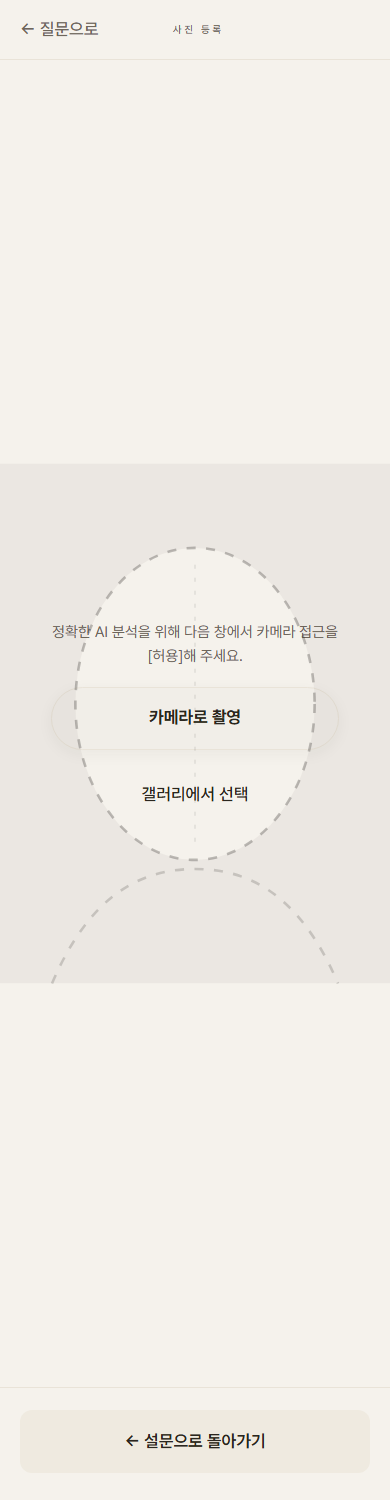
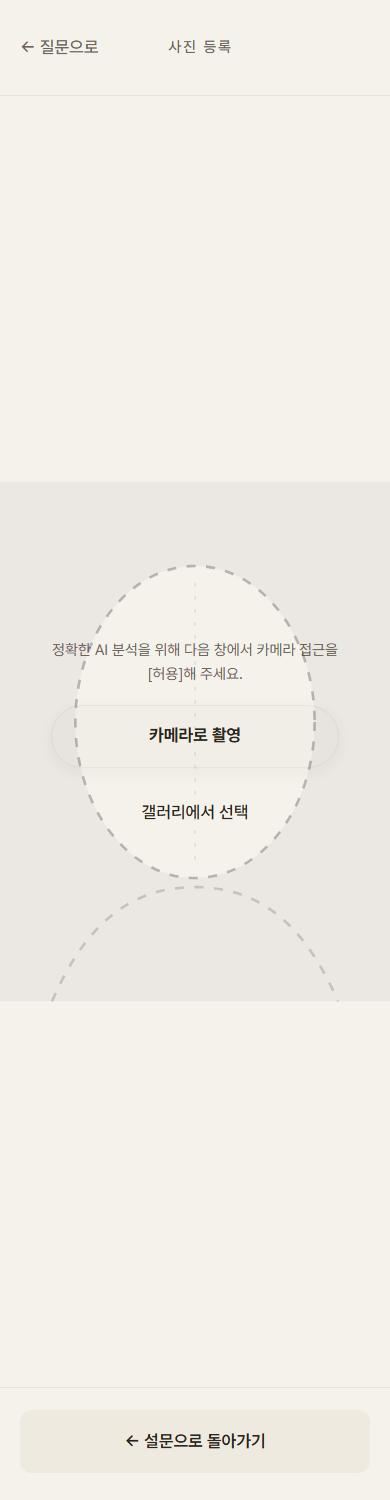
fix(ui-redesign): Codex 3차 반영 — 잔여 보조15·터치56 소탕
- 업로드 카메라 헤더 '질문으로' 터치56·'사진 등록' 10→15.
- 저장모달 MY HAIR 11→15·저장버튼 16→17, 한도안내 슬롯문구 12→15·재시도 터치56.
- RoundedOptionButton 선택지 번호 14→15(공용).
- 로직·문장·계측 무변경. tsc 0.

diff --git a/app/style/result/page.tsx b/app/style/result/page.tsx
@@ -145,7 +145,7 @@ function SaveDiaryModal({
         className="relative z-10 w-full max-w-lg overflow-hidden rounded-t-[28px] border-t border-white/60 bg-white/95 shadow-xl px-6 pb-10 pt-5 backdrop-blur-xl"
         onClick={(e) => e.stopPropagation()}>
         <div className="mx-auto mb-5 h-1 w-10 rounded-full bg-surface" />
-        <p className="text-[11px] font-bold uppercase tracking-[0.28em] text-ink-2">MY HAIR</p>
+        <p className="text-[15px] font-bold uppercase tracking-[0.12em] text-ink-2">MY HAIR</p>
         <h3 className="mt-2 text-h2 text-ink">나의 헤어에 저장하고 평생 소장하기</h3>
         <p className="mt-2 text-[15px] text-ink-2 leading-relaxed">
           진단 결과를 저장하면 나만의 맞춤 홈케어 제품과 스타일 히스토리가 보관됩니다.
@@ -158,7 +158,7 @@ function SaveDiaryModal({
           ))}
         </div>
         <button onClick={handleSaveAndRoute} disabled={loading}
-          className="mt-6 flex h-14 min-h-[48px] w-full items-center justify-center gap-3 rounded-full bg-btn-bg border border-btn-border text-base font-bold text-btn-text transition-all hover:brightness-95 active:scale-[0.98] disabled:opacity-50">
+          className="mt-6 flex min-h-14 w-full items-center justify-center gap-3 rounded-full bg-btn-bg border border-btn-border text-[17px] font-bold text-btn-text transition-all hover:brightness-95 active:scale-[0.98] disabled:opacity-50">
           {loading
             ? <motion.span
                 className="inline-block h-4 w-4 rounded-full"
@@ -229,7 +229,7 @@ function BeforeAfterSection({
               <circle cx="12" cy="12" r="9" /><path d="M12 7v5l3 2" strokeLinecap="round" strokeLinejoin="round" />
             </svg>
             <p className="text-[15px] font-bold leading-snug text-white/95">오늘 사진은<br />여기까지예요</p>
-            <p className="text-[12px] leading-relaxed text-white/75">내일 다시<br />만들어드릴게요</p>
+            <p className="text-[15px] leading-relaxed text-white/75">내일 다시<br />만들어드릴게요</p>
           </div>
         ) : generating ? (
           // Phase2: 사진 준비 중 — 슬롯엔 스피너만(상세 문구는 그리드 아래 전폭 블록).
@@ -246,7 +246,7 @@ function BeforeAfterSection({
               </svg>
               <p className="text-[15px] font-bold leading-snug text-white/95">{f.title}</p>
               <button onClick={onRetry}
-                className="mt-1 rounded-btn border border-white/35 bg-white/10 px-4 py-2 text-[15px] font-semibold text-white transition-colors hover:bg-white/20">
+                className="mt-1 inline-flex min-h-14 items-center rounded-btn border border-white/35 bg-white/10 px-4 text-[15px] font-semibold text-white transition-colors hover:bg-white/20">
                 {f.button}
               </button>
             </div>

diff --git a/app/style/upload/page.tsx b/app/style/upload/page.tsx
@@ -424,10 +424,10 @@ export default function StyleUploadPage() {
         {/* ── 헤더 (flex-none) ── */}
         <header className="flex flex-none items-center justify-between border-b border-line bg-bg px-page py-3.5">
           <button onClick={() => router.push("/style/survey")}
-            className="text-body font-medium text-ink-2 transition-colors hover:text-ink">
+            className="-ml-1 inline-flex min-h-14 items-center px-1 text-body font-medium text-ink-2 transition-colors hover:text-ink">
             ← 질문으로
           </button>
-          <span className="text-[10px] font-medium uppercase tracking-[0.28em] text-ink-2">사진 등록</span>
+          <span className="text-[15px] font-medium uppercase tracking-[0.12em] text-ink-2">사진 등록</span>
           <div className="w-16" />
         </header>
 

diff --git a/components/beauty-ui/RoundedOptionButton.tsx b/components/beauty-ui/RoundedOptionButton.tsx
@@ -41,7 +41,7 @@ export default function RoundedOptionButton({
     >
       {icon && (
         <span
-          className={`flex h-9 w-9 flex-none items-center justify-center rounded-full text-sm font-semibold tabular-nums transition-colors ${
+          className={`flex h-9 w-9 flex-none items-center justify-center rounded-full text-[15px] font-semibold tabular-nums transition-colors ${
             selected ? "bg-ink text-white" : "bg-surface text-ink-2"
           }`}
         >
